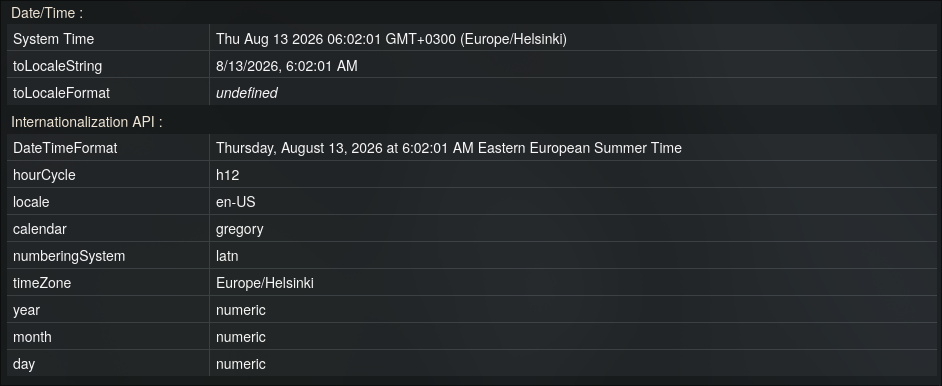
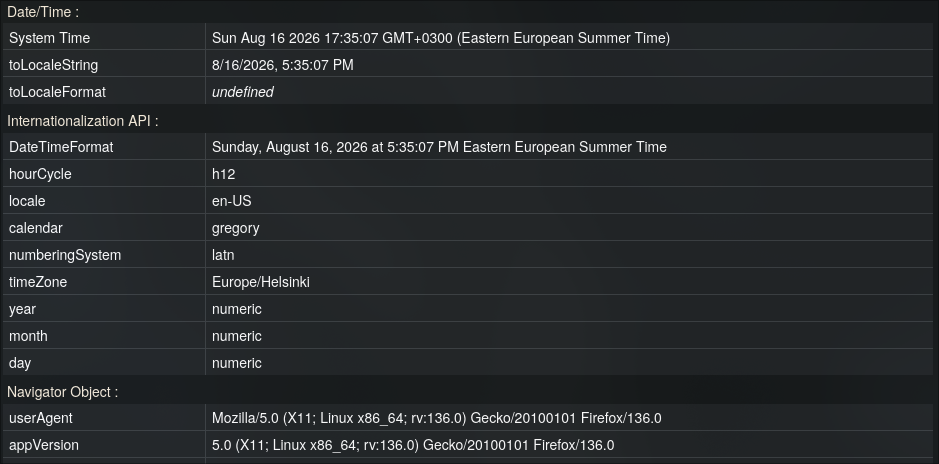
Update info + screen

diff --git a/frontend/popup.html b/frontend/popup.html
@@ -99,7 +99,7 @@
     </select>
     
     <label for="uaInput" style="margin-top: 10px;">Custom User-Agent</label>
-    <input type="text" id="uaInput" placeholder="Выберите пресет выше и измените...">
+    <input type="text" id="uaInput" placeholder="Set UA">
   </div>
 
   <button id="saveBtn">Save & Apply</button>

diff --git a/ru/README.ru.md b/ru/README.ru.md
@@ -1,5 +1,7 @@
 # Timezone Guard
 
+[![Firefox Add-on](https://img.shields.io/badge/Firefox-Add--on-FF7139?logo=firefox)](https://addons.mozilla.org/addon/timezone-guard/)
+
 *[Read in English](../README.md)*
 
 Расширение для Firefox, которое подменяет часовой пояс и (опционально) User-Agent, которые браузер сообщает сайтам — во всех контекстах: главной странице, iframe (любой глубины вложенности), Dedicated Worker, Shared Worker и Service Worker.
@@ -82,7 +84,8 @@ icons/
 
 | До (оригинал) | После (подмена) |
 | :---: | :---: |
-| ![До](../img/befory.png) | ![После](../img/after.png) |
+| ![До](../img/before.png) | ![После](../img/after.png) |
+| ![До](../img/creep-js-workers-before.png) | ![После](../img/creep-js-workers-after.png) |
 
 ## Лицензия
 

diff --git a/README.md b/README.md
@@ -1,5 +1,7 @@
 # Timezone Guard
 
+[![Firefox Add-on](https://img.shields.io/badge/Firefox-Add--on-FF7139?logo=firefox)](https://addons.mozilla.org/addon/timezone-guard/)
+
 *[Читать на русском](ru/README.ru.md)*
 
 A Firefox extension that spoofs the time zone and (optionally) the User-Agent reported by the browser to websites — across all contexts: the main page, iframes (any nesting depth), Dedicated Worker, Shared Worker, and Service Worker.
@@ -82,7 +84,8 @@ icons/
 
 | Before (Original) | After (Spoofed) |
 | :---: | :---: |
-| ![Before](img/befory.png) | ![After](img/after.png) |
+| ![Before](img/before.png) | ![After](img/after.png) |
+| ![Before](img/creep-js-workers-before.png) | ![After](img/creep-js-workers-after.png) |
 
 ## License
 
